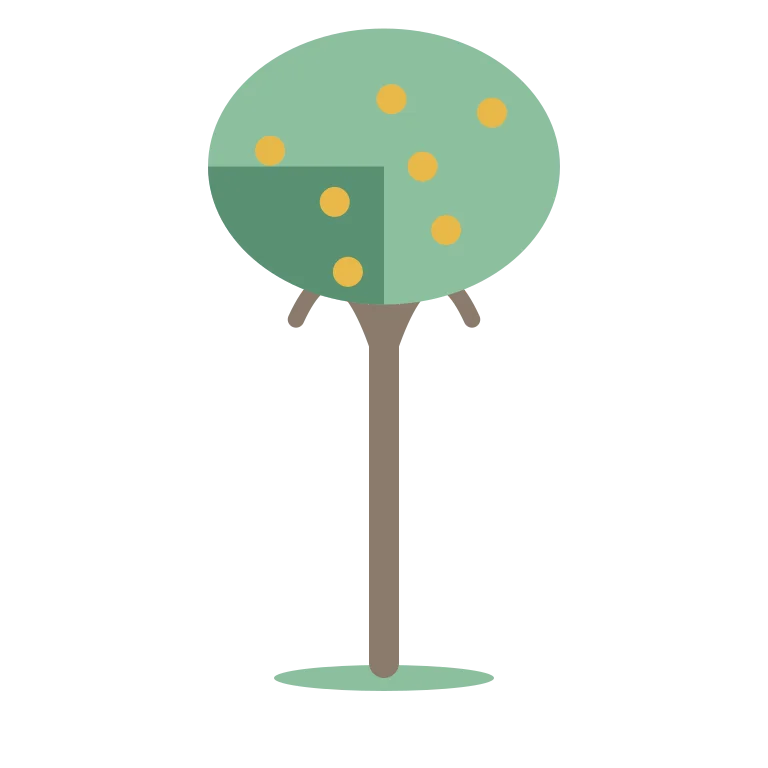
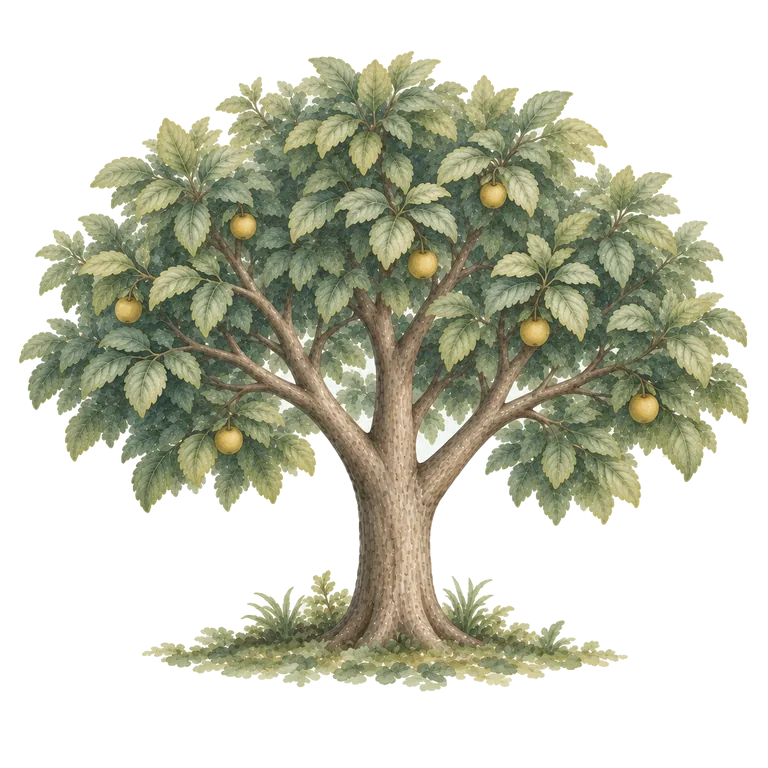
The placeholders come out and one hand paints all seventeen (#32)
The renders from pass 1 go through the five post-process steps and into the
bundle. Nothing that reads a pet or a tree changed: every filename was already
the manifest's, so this is seventeen files and two doc comments.

Keyed the painted `#F2F6F1` out of the thirteen assets that carried it, by
flood-fill from all four corners at 5% fuzz — the fuzz that reproduces pass 1's
own hand-measured ground-patch bottoms, which is how we know it took the
background and not the subject. Then trimmed and re-padded both ladders onto one
baseline, 85% for the pets and 90% for the trees, without rescaling, so the egg
stays smaller than the bird: five pets bottom at y=1066, eight trees at y=1129.
Then Lanczos down to the manifest canvas and WebP at quality 82, method 6, alpha
at full.

908 KB for the seventeen. The pets and overlays are under their allowances, the
trees 4% over at the quality floor, and the ground 131 KB against an allowance
of 45 that was never reachable at 1536x512 of painted grass. Recorded in
`docs/design/prompts.md` with the gap left visible rather than the table quietly
rewritten.

Claude-Session: https://claude.ai/code/session_016XsttD5LT5c428z6An1iKr

diff --git a/apps/mobile/src/lib/pet-art.ts b/apps/mobile/src/lib/pet-art.ts
@@ -9,12 +9,13 @@ import { t } from '@/lib/i18n';
  * Eight images cover fifteen combinations — five bodies against three marks — which is what keeps
  * the whole set holdable in one style (docs/spec/04-milestones.md, risks: "placeholder art in M1
  * tells you nothing about the mechanic; budget real art before the week-3 verdict"). The images
- * here are placeholders; the real renders arrive as a swap of the two maps below and nothing else,
- * because everything that reads a pet goes through `petArt`.
+ * here are the finished renders, swapped in over the placeholders without touching a require:
+ * everything that reads a pet goes through `petArt`, so the swap was eight files and no code.
  *
  * The requires are literal because Metro resolves an asset path only at build time — a computed
  * path bundles nothing and fails at runtime. The filenames are the ones the manifest in
- * `docs/design/prompts.md` reserves, so the swap replaces eight files and touches no code.
+ * `docs/design/prompts.md` fixes, and the five bodies share one baseline — content bottom at 85%
+ * of the canvas — so a level change moves the bird's age and not its feet.
  */
 
 export type PetArt = {

diff --git a/apps/mobile/src/lib/grove-art.ts b/apps/mobile/src/lib/grove-art.ts
@@ -13,10 +13,9 @@ import { t } from '@/lib/i18n';
  *
  * The requires are literal because Metro resolves an asset path only at build time — a computed
  * path bundles nothing and fails at runtime. The filenames are the ones the manifest in
- * `docs/design/prompts.md` reserves, so the art swap replaces nine files and touches no code.
- * What ships here is placeholder art: the same eight silhouettes and the same muted palette as
- * the prompts, drawn as flat shapes because a placeholder that pretends to be the real style is
- * worse than one that plainly is not.
+ * `docs/design/prompts.md` fixes, and the art swap replaced these nine files without touching a
+ * require. What ships here is the finished art: one broadleaf across all eight forms, blossom at
+ * six, fruit at seven, heavy fruit at eight.
  */
 
 const FORMS = [

diff --git a/docs/design/prompts.md b/docs/design/prompts.md
@@ -76,7 +76,7 @@ The eye is a simple dark round dot with a single small light catch — never a d
 
 | model | seed | date | notes |
 |---|---|---|---|
-|  |  |  |  |
+| Nano Banana | not recorded | 2026-09-10 | pass 1 render, accepted; parent of the pet ladder |
 
 ### 2. `pet-l2` — hatchling
 
@@ -86,7 +86,7 @@ The eye is a simple dark round dot with a single small light catch — never a d
 
 | model | seed | date | notes |
 |---|---|---|---|
-|  |  |  |  |
+| Nano Banana | not recorded | 2026-09-10 | pass 1 render, accepted; edit of `pet-l1` |
 
 ### 3. `pet-l3` — fledgling
 
@@ -96,7 +96,7 @@ The eye is a simple dark round dot with a single small light catch — never a d
 
 | model | seed | date | notes |
 |---|---|---|---|
-|  |  |  |  |
+| Nano Banana | not recorded | 2026-09-10 | pass 1 render, accepted; edit of `pet-l2` |
 
 ### 4. `pet-l4` — full
 
@@ -106,7 +106,7 @@ The eye is a simple dark round dot with a single small light catch — never a d
 
 | model | seed | date | notes |
 |---|---|---|---|
-|  |  |  |  |
+| Nano Banana | not recorded | 2026-09-10 | pass 1 render, accepted; edit of `pet-l3` |
 
 ### 5. `pet-l5` — splendid
 
@@ -120,7 +120,7 @@ It also turned the bird to face the viewer, which the wording did not ask for an
 
 | model | seed | date | notes |
 |---|---|---|---|
-|  |  |  |  |
+| Nano Banana | not recorded | 2026-09-10 | pass 1 re-render (`pet-l5-new.png`) against the corrected prompt; the first `pet-l5.png` beside it is rejected and was not committed |
 
 ---
 
@@ -138,7 +138,7 @@ Sleepy is the one to get right: the pet is sleepy when the child has done nothin
 
 | model | seed | date | notes |
 |---|---|---|---|
-|  |  |  |  |
+| Nano Banana | not recorded | 2026-09-10 | pass 1 render, accepted |
 
 ### 7. `pet-mood-content`
 
@@ -148,7 +148,7 @@ Sleepy is the one to get right: the pet is sleepy when the child has done nothin
 
 | model | seed | date | notes |
 |---|---|---|---|
-|  |  |  |  |
+| Nano Banana | not recorded | 2026-09-10 | pass 1 render, accepted |
 
 ### 8. `pet-mood-sleepy`
 
@@ -158,7 +158,7 @@ Sleepy is the one to get right: the pet is sleepy when the child has done nothin
 
 | model | seed | date | notes |
 |---|---|---|---|
-|  |  |  |  |
+| Nano Banana | not recorded | 2026-09-10 | pass 1 render, accepted |
 
 ---
 
@@ -182,7 +182,7 @@ Every tree stands on the same shallow patch of pale sage-green ground, its base 
 
 | model | seed | date | notes |
 |---|---|---|---|
-|  |  |  |  |
+| Nano Banana | not recorded | 2026-09-10 | pass 1 render, accepted; parent of the tree ladder |
 
 ### 10. `tree-s2` — form 2, sapling
 
@@ -192,7 +192,7 @@ Every tree stands on the same shallow patch of pale sage-green ground, its base 
 
 | model | seed | date | notes |
 |---|---|---|---|
-|  |  |  |  |
+| Nano Banana | not recorded | 2026-09-10 | pass 1 render, accepted; edit of `tree-s1` |
 
 ### 11. `tree-s3` — form 3, first crown
 
@@ -202,7 +202,7 @@ Every tree stands on the same shallow patch of pale sage-green ground, its base 
 
 | model | seed | date | notes |
 |---|---|---|---|
-|  |  |  |  |
+| Nano Banana | not recorded | 2026-09-10 | pass 1 render, accepted; edit of `tree-s2` |
 
 ### 12. `tree-s4` — form 4, branching
 
@@ -212,7 +212,7 @@ Every tree stands on the same shallow patch of pale sage-green ground, its base 
 
 | model | seed | date | notes |
 |---|---|---|---|
-|  |  |  |  |
+| Nano Banana | not recorded | 2026-09-10 | pass 1 render, accepted; edit of `tree-s3` |
 
 ### 13. `tree-s5` — form 5, full canopy
 
@@ -222,7 +222,7 @@ Every tree stands on the same shallow patch of pale sage-green ground, its base 
 
 | model | seed | date | notes |
 |---|---|---|---|
-|  |  |  |  |
+| Nano Banana | not recorded | 2026-09-10 | pass 1 render, accepted; edit of `tree-s4` |
 
 ### 14. `tree-s6` — form 6, blossom
 
@@ -232,7 +232,7 @@ Every tree stands on the same shallow patch of pale sage-green ground, its base 
 
 | model | seed | date | notes |
 |---|---|---|---|
-|  |  |  |  |
+| Nano Banana | not recorded | 2026-09-10 | pass 1 render, accepted; edit of `tree-s5` |
 
 ### 15. `tree-s7` — form 7, fruit
 
@@ -242,7 +242,7 @@ Every tree stands on the same shallow patch of pale sage-green ground, its base 
 
 | model | seed | date | notes |
 |---|---|---|---|
-|  |  |  |  |
+| Nano Banana | not recorded | 2026-09-10 | pass 1 render, accepted; edit of `tree-s6` |
 
 ### 16. `tree-s8` — form 8, heavy fruit
 
@@ -252,7 +252,7 @@ Every tree stands on the same shallow patch of pale sage-green ground, its base 
 
 | model | seed | date | notes |
 |---|---|---|---|
-|  |  |  |  |
+| Nano Banana | not recorded | 2026-09-10 | pass 1 render, accepted; edit of `tree-s7` |
 
 ---
 
@@ -268,7 +268,7 @@ The shared ground line the grove's trees stand on: a wide strip tiled horizontal
 
 | model | seed | date | notes |
 |---|---|---|---|
-|  |  |  |  |
+| Nano Banana | not recorded | 2026-09-10 | pass 1 render, accepted; the only asset that ships at its rendered aspect |
 
 ---
 
@@ -420,3 +420,31 @@ Two smaller things, both handled in post rather than by re-rendering: the painte
 **Re-render, same day — accepted.** `pet-l5` regenerated from `pet-l4` against the corrected prompt. It reads clearly apart from `pet-l4` at 40 points on the cocked tail alone, so fault 3 is closed. Two notes carried into the entry above: it turned the bird front-on, which is kept and the stage rule amended to match; and its ground-patch bottom landed at y=1080 against the other four pets' y=1037. That 3.4% drift is the same fault as the trees', on the one asset pass 1 had cited as evidence the pets did not need aligning — so **Export and post-process** step 3 runs over the pet bodies too, not as a spot check but as the same trim-and-repad the trees get. One re-render was enough to show that no ladder holds its own baseline across a re-generation.
 
 A second pass is only needed if a later pass forces a change to the style block itself. A correction confined to one entry is verified by that entry's re-render.
+
+---
+
+## The swap — 2026-09-11
+
+The seventeen in-app assets went from `~/Downloads/mimbo-assets` into `apps/mobile/assets/`. The four identity assets stay out until the icon ticket. No require changed: every filename was already the manifest's, so the swap replaced seventeen files and edited two doc comments.
+
+**What the five post-process steps actually did.**
+
+1. **Rename.** Three tree sources carry a leading space (`" tree-s1.png"` and its two siblings) and `pet-l5-new.png` is the accepted `pet-l5`. Both were handled by name, not by guessing: the rejected `pet-l5.png` beside it was never read.
+2. **Key out.** Flood-fill to transparent from all four corners at 5% fuzz. That fuzz is the number that reproduces pass 1's own measurements exactly — the five pet bodies came back with their ground patches bottoming at y=1037, 1037, 1037, 1037 and 1080, and the eight trees at y=1069 ×4, y=1145 ×3, y=1169, which is what pass 1 recorded by hand. A keying that finds the same edges pass 1 found is a keying that took the background and not the subject.
+3. **Trim and repad.** Each ladder onto one baseline on its original 1254 canvas, at 90% for the trees and 85% for the pets, content centred horizontally, no rescaling — the egg must stay smaller than the bird. Verified by re-trimming: all five pets bottom at y=1066, all eight trees at y=1129. One line each.
+4. **Resize and convert.** Lanczos down to the manifest canvas, then WebP at quality 82 with `method=6` and the alpha channel at full quality. 82 is the bottom of the documented band, chosen because the trees are what the budget is spent on.
+5. **Mask check.** Not run — it applies only to the two adaptive-icon layers, which this swap did not bring in.
+
+**The budget, as shipped.** 908 KB for the seventeen, against the ~850 KB the table above allots them.
+
+| group | files | allowance | actual |
+|---|---|---|---|
+| pet bodies | 5 | ~200 KB | 151 KB |
+| mood overlays | 3 | ~45 KB | 44 KB |
+| tree forms | 8 | ~560 KB | 581 KB |
+| ground | 1 | ~45 KB | 131 KB |
+| | **17** | **~850 KB** | **908 KB** |
+
+The pets and the overlays came in under. The trees are 4% over at the quality floor, which is inside the noise of a "~" allowance and not worth the crown detail that the section above says to protect. The ground is the real overage: the allowance assumed a thin strip, and the asset is 1536×512 of painted grass with an alpha edge across its full width — 786k pixels, nearly all of them textured. Quality 60 takes it to 110 KB and no further, so 45 KB was never reachable at this canvas. The allowance is wrong, not the asset; it stands at 131 KB and the group table above keeps its original figures so the gap stays visible. The ticket's own ceiling — ~1.5 MB — has 600 KB of headroom left, which is what the icon ticket needs.
+
+**What the result looks like.** The five bodies read as one creature at five ages, and each of the three overlays composites over each of the five without touching the bird's face. The eight tree forms are individually tellable at 40 points, blossom at six, fruit at seven, heavy fruit at eight, and the row stands on one line. Nothing shows the faint background tile that pass 1 predicted, because nothing has a background any more.
